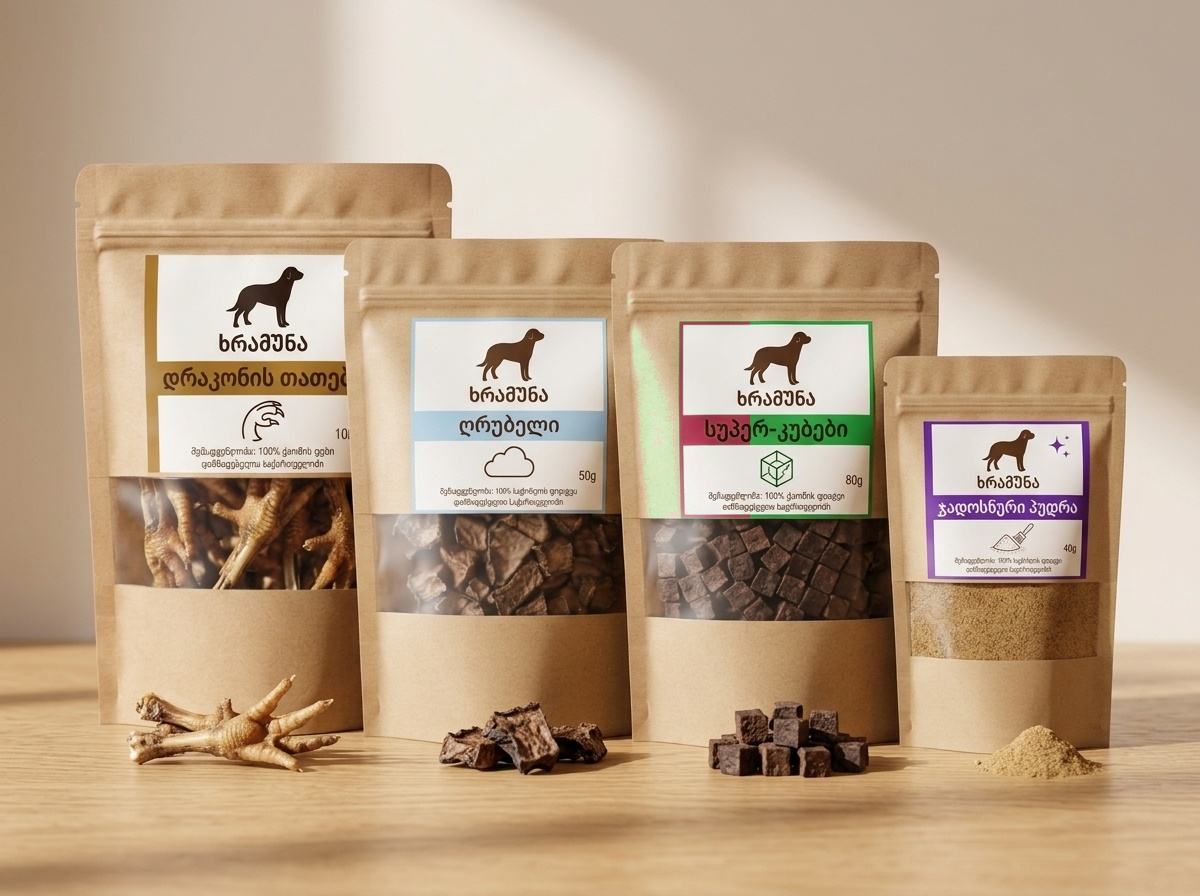
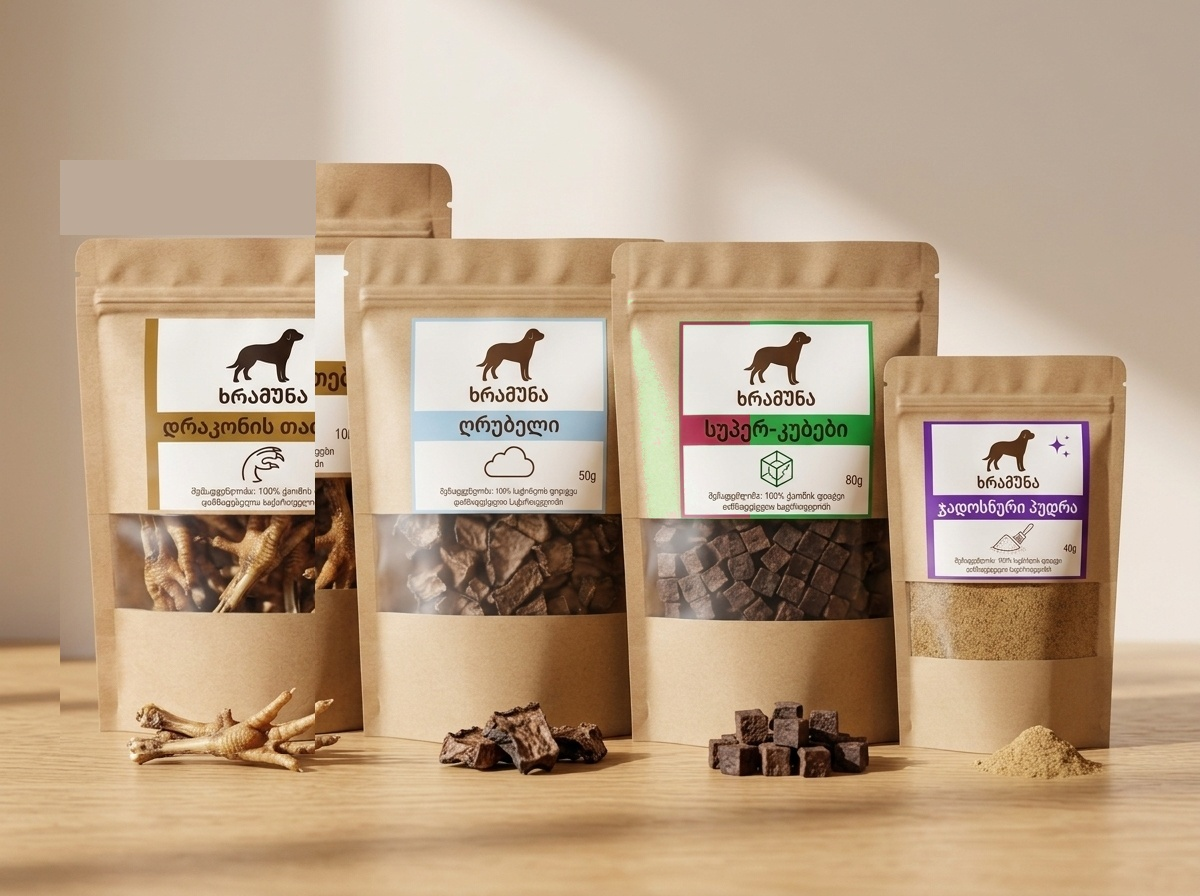
fix(media): equalize 3 pouch heights in Full Pack with only powder being smaller

Changed region(s): [[0.0617, 0.1562, 0.2775, 0.6875], [0.0308, 0.7188, 0.2775, 0.8438]]

diff --git a/src/server.js b/src/server.js
@@ -416,7 +416,7 @@ app.post('/webhook', async (req, res) => {
                 } else if (productKey === 'powder') {
                   await sendMessengerImage(senderPsid, `${BASE_HOST}/images/pudra_v3.jpg`);
                 } else if (productKey === 'full_pack') {
-                  await sendMessengerImage(senderPsid, `${BASE_HOST}/images/full_pack_v4.jpg`);
+                  await sendMessengerImage(senderPsid, `${BASE_HOST}/images/full_pack_v5.jpg`);
                 }
                 const infoText = `🐾 ${product.name}\n\n${product.desc}\nფასი: ${product.price}₾\n\nგსურთ შეკვეთის გაფორმება? 🐶`;
                 await sendMessengerMessage(senderPsid, infoText);
@@ -496,7 +496,7 @@ app.post('/webhook', async (req, res) => {
                 await sendMessengerImage(senderPsid, `${BASE_HOST}/images/pudra_v3.jpg`);
                 await sendMessengerMessage(senderPsid, 'ესეც „ჯადოსნური პუდრა“ (40გ) — 100% ხორცის ტოპინგი 🐾 მადისაღმძვრელი არომატი პრეტენზიული ძაღლებისთვის.');
               } else {
-                await sendMessengerImage(senderPsid, `${BASE_HOST}/images/full_pack_v4.jpg`);
+                await sendMessengerImage(senderPsid, `${BASE_HOST}/images/full_pack_v5.jpg`);
                 await sendMessengerMessage(senderPsid, 'გაეცანით ჩვენს ნატურალურ ასორტიმენტს 🐾 ქვემოთ შეგიძლიათ დეტალურადაც დაათვალიეროთ:');
                 await sendProductCatalog(senderPsid);
               }

diff --git a/src/services/facebook.js b/src/services/facebook.js
@@ -296,7 +296,7 @@ export async function sendProductCatalog(recipientId) {
     {
       title: '🎁 Full Pack (სრული ნაკრები) — 49.50₾',
       subtitle: 'ოთხივე პროდუქტი ერთად (55₾-ის ნაცვლად) + 10% ფასდაკლებით',
-      image_url: `${baseHost}/images/full_pack_v4.jpg`,
+      image_url: `${baseHost}/images/full_pack_v5.jpg`,
       buttons: [
         { type: 'postback', title: '🛒 შეკვეთა (49.50₾)', payload: 'ORDER_full_pack' },
       ],
